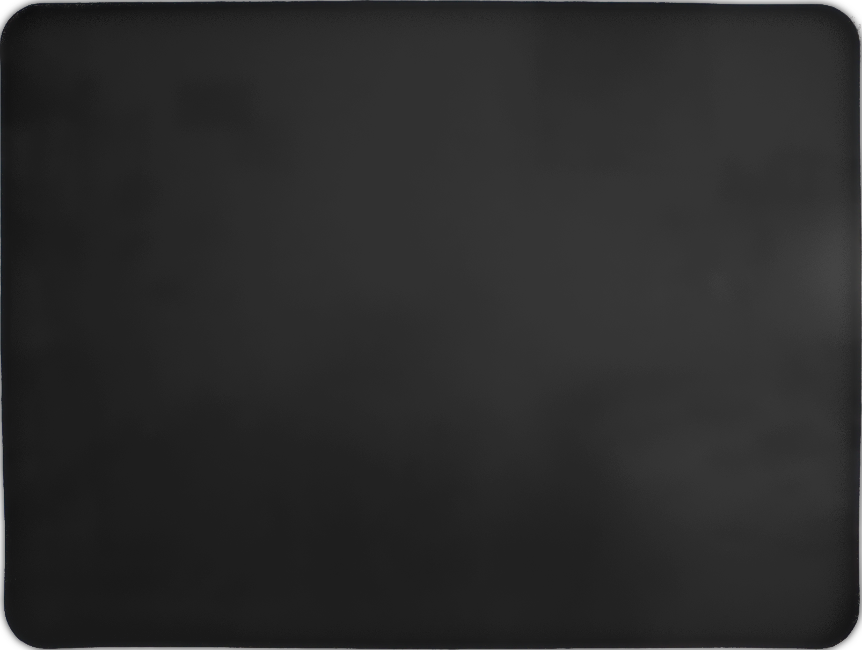
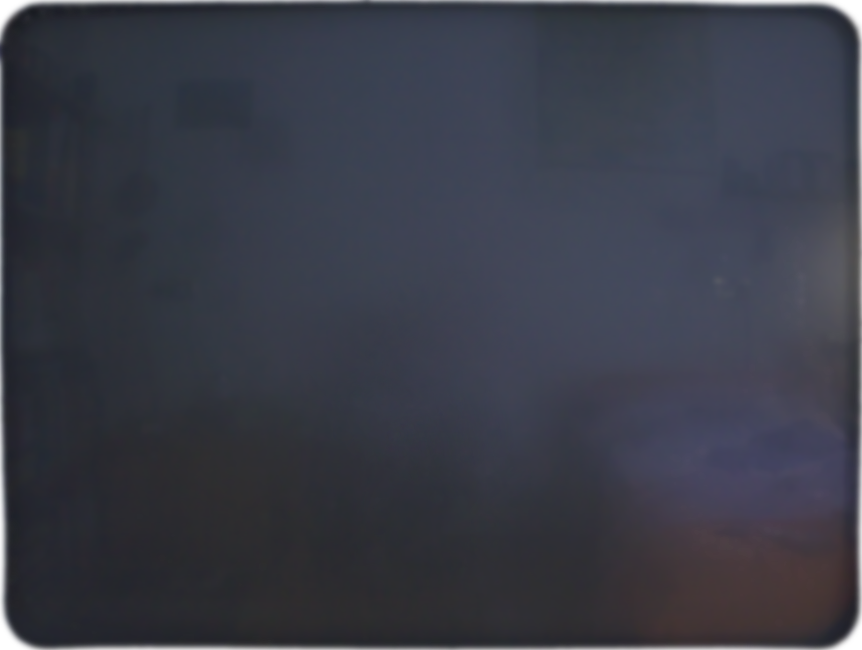
Add reflection adj option to ini

diff --git a/src/appconfig.cpp b/src/appconfig.cpp
@@ -64,6 +64,7 @@ ini_file_t AppConfig::ms_def_values = {
 		{ DISPLAY_REALISTIC_SHADER, "gui/shaders/fb-realistic.fs" },
 		{ DISPLAY_REALISTIC_FILTER, "bicubic" },
 		{ DISPLAY_REALISTIC_SCALE, "1.0" },
+		{ DISPLAY_REALISTIC_AMBIENT, "0.6" },
 		{ DISPLAY_BRIGHTNESS, "1.0" },
 		{ DISPLAY_CONTRAST, "1.0" },
 		{ DISPLAY_SATURATION, "1.0" }
@@ -182,25 +183,29 @@ ini_filehelp_t AppConfig::ms_help = {
 		},
 
 		{ DISPLAY_SECTION,
-";    normal_aspect: VGA aspect ratio (for normal and compact GUI modes)\n"
+"; The following parameters are used for normal and compact GUI modes only:\n"
+";    normal_aspect: VGA aspect ratio\n"
 ";                   Possible values: original, adaptive, scaled.\n"
 ";                    original: 4:3 aspect ratio\n"
-";                    adaptive: screen will be scaled maintaining the aspect ratio of the current video mode (eg: 16:10 for 320x200)\n"
+";                    adaptive: screen will be scaled maintaining the aspect ratio of the current video mode\n"
 ";                      scaled: screen will be scaled to fill your monitor\n"
-";    normal_shader: GLSL fragment shader to use for VGA rendering (for normal and compact GUI modes)\n"
-";    normal_filter: VGA scaling filter (for normal and compact modes)\n"
+";    normal_shader: GLSL fragment shader to use for VGA rendering\n"
+";    normal_filter: VGA scaling filter\n"
 ";                   Possible values: nearest, bilinear, bicubic\n"
-"; realistic_shader: GLSL fragment shader to use for VGA rendering (for realistic GUI mode)\n"
-"; realistic_filter: VGA scaling filter (for realistic GUI mode)\n"
+"; The following parameters are used for realistic GUI mode only:\n"
+"; realistic_shader: GLSL fragment shader to use for VGA rendering\n"
+"; realistic_filter: VGA scaling filter\n"
 ";                   Possible values: nearest, bilinear, bicubic\n"
-";  realistic_scale: VGA dimensions as a scaling factor (for realistic GUI mode.) Use this to adjust the image size.\n"
-";                   Possible values: a real number, where 1.0 is the original VGA image size, ~1.2 fills the screen.\n"
+";  realistic_scale: VGA dimensions as a scaling factor. Use this to adjust the image size.\n"
+";                   1.0 is the original VGA image size and ~1.2 fills the screen.\n"
+";realistic_ambient: Intensity of the ambient light. It is a weight for the monitor reflection map.\n"
+";                   Use a number between 0.0 and 1.0. 0.0 gives a pitch-black monitor.\n"
+"; The following parameters are used for any GUI mode:\n"
 ";       brightness: Monitor brightness.\n"
-";                   Possible values: any positive real number. When in realistic GUI mode it's clamped to 1.3\n"
+";                   When in realistic GUI mode it's clamped to 1.3\n"
 ";         contrast: Monitor contrast.\n"
-";                   Possible values: any positive real number. When in realistic GUI mode it's clamped to 1.3\n"
+";                   When in realistic GUI mode it's clamped to 1.3\n"
 ";       saturation: Monitor saturation.\n"
-";                   Possible values: any positive real number.\n"
 		},
 
 		{ CMOS_SECTION, ""
@@ -313,6 +318,7 @@ std::vector<std::pair<std::string, std::vector<std::string>>> AppConfig::ms_keys
 		DISPLAY_REALISTIC_SHADER,
 		DISPLAY_REALISTIC_FILTER,
 		DISPLAY_REALISTIC_SCALE,
+		DISPLAY_REALISTIC_AMBIENT,
 		DISPLAY_BRIGHTNESS,
 		DISPLAY_CONTRAST,
 		DISPLAY_SATURATION

diff --git a/src/gui/windows/realistic_interface.cpp b/src/gui/windows/realistic_interface.cpp
@@ -107,6 +107,7 @@ Interface(_machine, _gui, _mixer, "realistic_interface.rml")
 		shadersdir + REALISTIC_VGA_VS,
 		g_program.config().find_file(DISPLAY_SECTION,DISPLAY_REALISTIC_SHADER)
 	);
+	GLCALL( m_rdisplay.uniforms.ambient = glGetUniformLocation(m_display.prog, "iAmbientLight") );
 	GLCALL( m_rdisplay.uniforms.reflection_map = glGetUniformLocation(m_display.prog, "iReflectionMap") );
 	GLCALL( m_rdisplay.uniforms.reflection_scale = glGetUniformLocation(m_display.prog, "iReflectionScale") );
 	GLCALL( m_rdisplay.uniforms.vga_scale = glGetUniformLocation(m_display.prog, "iVGAScale") );
@@ -116,7 +117,9 @@ Interface(_machine, _gui, _mixer, "realistic_interface.rml")
 	vs.push_back(shadersdir + REALISTIC_MONITOR_VS);
 	fs.push_back(shadersdir + REALISTIC_MONITOR_FS);
 	m_monitor.prog = GUI::load_GLSL_program(vs,fs);
+	m_monitor.ambient = clamp(g_program.config().get_real(DISPLAY_SECTION, DISPLAY_REALISTIC_AMBIENT), 0.0, 1.0);
 	GLCALL( m_monitor.uniforms.mvmat = glGetUniformLocation(m_monitor.prog, "iModelView") );
+	GLCALL( m_monitor.uniforms.ambient = glGetUniformLocation(m_display.prog, "iAmbientLight") );
 	GLCALL( m_monitor.uniforms.reflection_map = glGetUniformLocation(m_monitor.prog, "iReflectionMap") );
 
 	GLCALL( glGenSamplers(1, &m_monitor.reflection_sampler) );
@@ -231,6 +234,7 @@ void RealisticInterface::render_monitor()
 	GLCALL( glBindTexture(GL_TEXTURE_2D, m_monitor.reflection_map) );
 	GLCALL( glBindSampler(0, m_monitor.reflection_sampler) );
 	GLCALL( glUniform1i(m_monitor.uniforms.reflection_map, 0) );
+	GLCALL( glUniform1f(m_monitor.uniforms.ambient, m_monitor.ambient) );
 	GLCALL( glDisable(GL_BLEND) );
 	render_quad();
 
@@ -247,6 +251,7 @@ void RealisticInterface::render_vga()
 	GLCALL( glUniform1i(m_rdisplay.uniforms.reflection_map, 1) );
 	GLCALL( glUniform2f(m_rdisplay.uniforms.reflection_scale, m_rdisplay.reflection_scale.x, m_rdisplay.reflection_scale.y) );
 	GLCALL( glUniform2f(m_rdisplay.uniforms.vga_scale, REALISTIC_VGA_SCALE, REALISTIC_VGA_SCALE) );
+	GLCALL( glUniform1f(m_rdisplay.uniforms.ambient, m_monitor.ambient) );
 	render_quad();
 }
 

diff --git a/src/gui/windows/realistic_interface.h b/src/gui/windows/realistic_interface.h
@@ -49,10 +49,12 @@ private:
 	struct Monitor {
 		mat4f mvmat;
 		GLuint prog;
+		float  ambient;
 		GLuint reflection_map;
 		GLuint reflection_sampler;
 		struct {
 			GLint mvmat;
+			GLint ambient;
 			GLint reflection_map;
 		} uniforms;
 	} m_monitor;
@@ -60,6 +62,7 @@ private:
 	struct {
 		vec2f reflection_scale;
 		struct {
+			GLint ambient;
 			GLint reflection_map;
 			GLint vga_scale;
 			GLint reflection_scale;

diff --git a/src/appconfig.h b/src/appconfig.h
@@ -123,6 +123,7 @@ public:
 #define DISPLAY_REALISTIC_SHADER "realistic_shader"
 #define DISPLAY_REALISTIC_FILTER "realistic_filter"
 #define DISPLAY_REALISTIC_SCALE  "realistic_scale"
+#define DISPLAY_REALISTIC_AMBIENT "realistic_ambient"
 #define DISPLAY_BRIGHTNESS       "brightness"
 #define DISPLAY_CONTRAST         "contrast"
 #define DISPLAY_SATURATION       "saturation"
